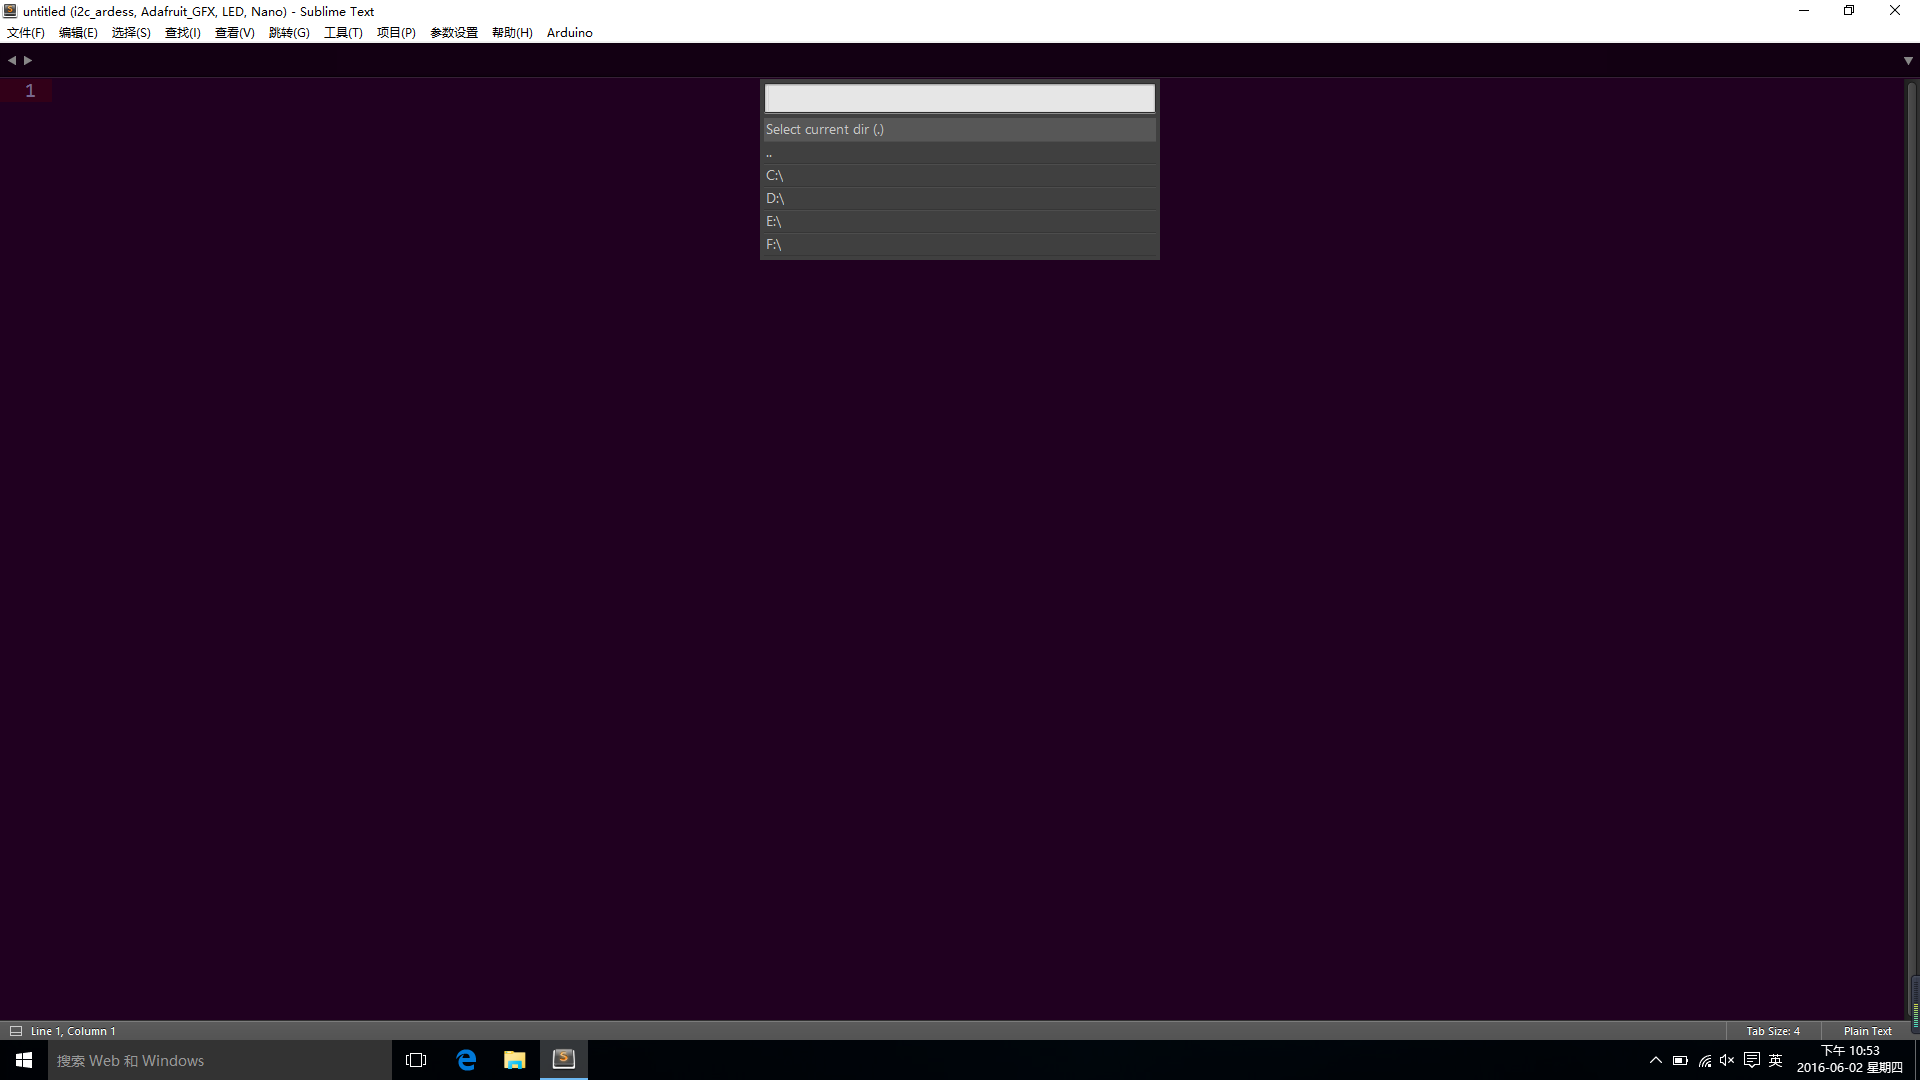
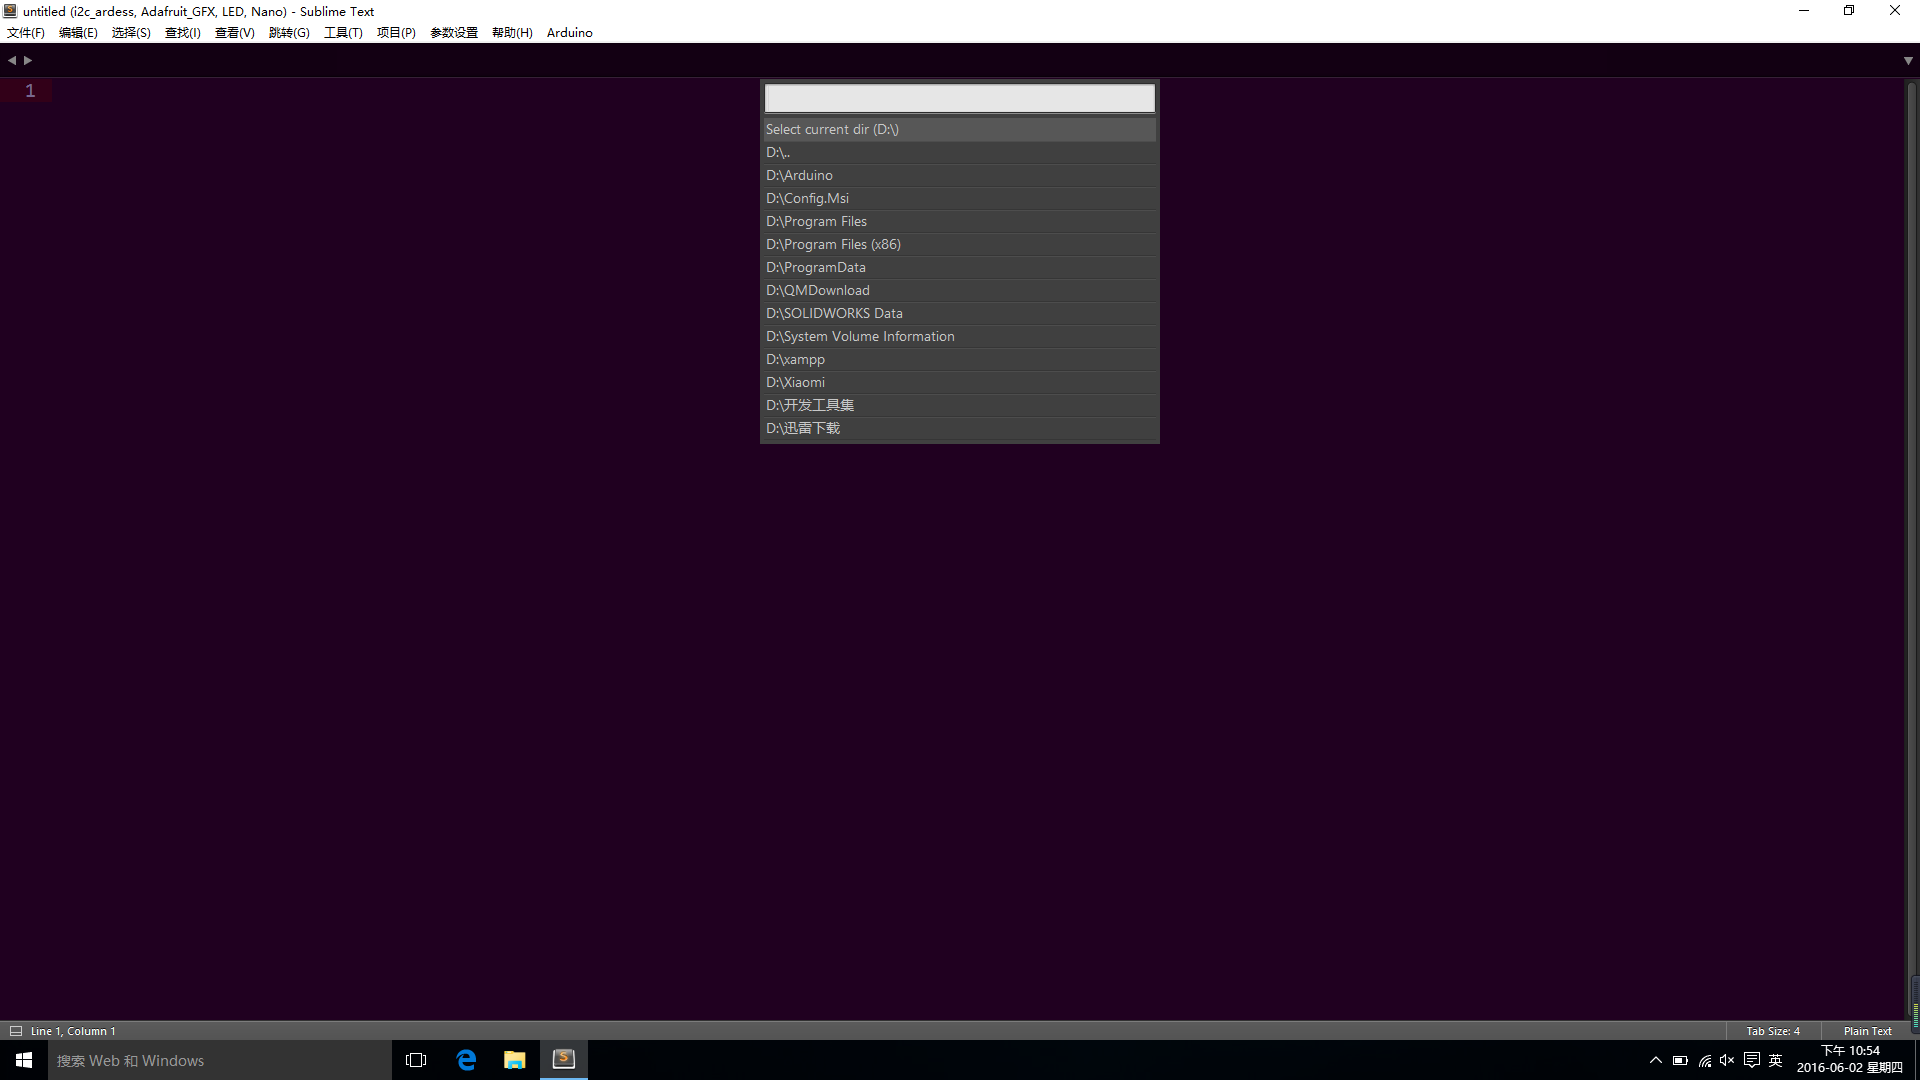
Site updated: 2016-07-02 00:36:18

Changed region(s): [[0.375, 0.1528, 0.625, 0.4278]]

diff --git a/2016/06/30/sublime-stino/index.html b/2016/06/30/sublime-stino/index.html
@@ -5,23 +5,22 @@
   
   <title>替代Arduino IDE的Sublime Text的插件---Stino | 探索的好奇心</title>
   <meta name="viewport" content="width=device-width, initial-scale=1, maximum-scale=1">
-  <meta name="description" content="Stino是Sublime Text的插件，它把Sublime Text变身成Arduino IDE，但功能比官方软件强大,比如Arduino IDE没有代码自动补全提示。我第一次用Sublime Text的Stino后就爱上了这个插件，打代码时自动提示和补全，很赞！！接下来说说Sublime Text如何安装Stino插件及一些问题的解决方法！Arduino IDE需要安装到盘的根目录下而不是P">
+  <meta name="description" content="Stino是Sublime Text的插件，它能把Sublime Text变身成Arduino IDE，但功能比官方软件强大，比如Arduino IDE没有代码自动补全提示。我第一次用Sublime Text的Stino插件后就爱上了这个玩意，打代码时自动提示和补全，很赞！！并且编译速度比官方IDE快！因为Arduino IDE是基于Java的Processing，Java的虚拟机机制导致编译速度">
 <meta property="og:type" content="article">
 <meta property="og:title" content="替代Arduino IDE的Sublime Text的插件---Stino">
 <meta property="og:url" content="http://haoqiabin.cn/2016/06/30/sublime-stino/index.html">
 <meta property="og:site_name" content="探索的好奇心">
-<meta property="og:description" content="Stino是Sublime Text的插件，它把Sublime Text变身成Arduino IDE，但功能比官方软件强大,比如Arduino IDE没有代码自动补全提示。我第一次用Sublime Text的Stino后就爱上了这个插件，打代码时自动提示和补全，很赞！！接下来说说Sublime Text如何安装Stino插件及一些问题的解决方法！Arduino IDE需要安装到盘的根目录下而不是P">
+<meta property="og:description" content="Stino是Sublime Text的插件，它能把Sublime Text变身成Arduino IDE，但功能比官方软件强大，比如Arduino IDE没有代码自动补全提示。我第一次用Sublime Text的Stino插件后就爱上了这个玩意，打代码时自动提示和补全，很赞！！并且编译速度比官方IDE快！因为Arduino IDE是基于Java的Processing，Java的虚拟机机制导致编译速度">
 <meta property="og:image" content="http://haoqiabin.cn/img/step1.png">
 <meta property="og:image" content="http://haoqiabin.cn/img/step2.png">
 <meta property="og:image" content="http://haoqiabin.cn/img/step3.png">
 <meta property="og:image" content="http://haoqiabin.cn/img/step4.png">
 <meta property="og:image" content="http://haoqiabin.cn/img/step5.png">
 <meta property="og:image" content="http://haoqiabin.cn/img/step6.png">
-<meta property="og:image" content="http://haoqiabin.cn/img/step7.png">
-<meta property="og:updated_time" content="2016-06-30T15:19:51.950Z">
+<meta property="og:updated_time" content="2016-07-01T16:35:12.950Z">
 <meta name="twitter:card" content="summary">
 <meta name="twitter:title" content="替代Arduino IDE的Sublime Text的插件---Stino">
-<meta name="twitter:description" content="Stino是Sublime Text的插件，它把Sublime Text变身成Arduino IDE，但功能比官方软件强大,比如Arduino IDE没有代码自动补全提示。我第一次用Sublime Text的Stino后就爱上了这个插件，打代码时自动提示和补全，很赞！！接下来说说Sublime Text如何安装Stino插件及一些问题的解决方法！Arduino IDE需要安装到盘的根目录下而不是P">
+<meta name="twitter:description" content="Stino是Sublime Text的插件，它能把Sublime Text变身成Arduino IDE，但功能比官方软件强大，比如Arduino IDE没有代码自动补全提示。我第一次用Sublime Text的Stino插件后就爱上了这个玩意，打代码时自动提示和补全，很赞！！并且编译速度比官方IDE快！因为Arduino IDE是基于Java的Processing，Java的虚拟机机制导致编译速度">
 <meta name="twitter:image" content="http://haoqiabin.cn/img/step1.png">
   
     <link rel="alternative" href="/atom.xml" title="探索的好奇心" type="application/atom+xml">
@@ -281,10 +280,10 @@
     <div class="article-entry" itemprop="articleBody">
       
           
-        <p>Stino是Sublime Text的插件，它把Sublime Text变身成Arduino IDE，但功能比官方软件强大,比如Arduino IDE没有代码自动补全提示。<br>我第一次用Sublime Text的Stino后就爱上了这个插件，打代码时自动提示和补全，很赞！！<br>接下来说说Sublime Text如何安装Stino插件及一些问题的解决方法！<br>Arduino IDE需要安装到盘的根目录下而不是Program Files目录下！<br><a href="https://github.com/Robot-Will/Stino" target="_blank" rel="external">Stino插件官网</a><br>安装需要:</p>
+        <p>Stino是Sublime Text的插件，它能把Sublime Text变身成Arduino IDE，但功能比官方软件强大，比如Arduino IDE没有代码自动补全提示。<br>我第一次用Sublime Text的Stino插件后就爱上了这个玩意，打代码时自动提示和补全，很赞！！并且编译速度比官方IDE快！因为Arduino IDE是基于Java的Processing，Java的虚拟机机制导致编译速度较慢，Sublime Text是C/C++语言编写的，编译速度自然杠杠的！<br>接下来说说Sublime Text如何安装Stino插件及一些问题的解决方法！<br>Arduino IDE需要安装到盘的根目录下而不是Program Files目录下！<br><a href="https://github.com/Robot-Will/Stino" target="_blank" rel="external">Stino插件官网</a><br>安装需要:</p>
 <ul>
-<li><a href="http://www.sublimetext.com/" target="_blank" rel="external">Sublime Text</a><br>经测试Sublime Text 2和Sublime Text 3均可使用Stino插件</li>
-<li><a href="https://www.arduino.cc/en/Main/Software" target="_blank" rel="external">Arduino IDE</a><br>Stino插件依赖于Arduino IDE，</li>
+<li><a href="http://www.sublimetext.com/" target="_blank" rel="external">Sublime Text</a> &lt;–点击下载<br>经测试Sublime Text 2和Sublime Text 3均可使用Stino插件</li>
+<li><a href="https://www.arduino.cc/en/Main/Software" target="_blank" rel="external">Arduino IDE</a> &lt;–点击下载<br>Sublime Text+Stino插件依赖于Arduino IDE，装上哈</li>
 </ul>
 <hr>
 <p>安装方法：</p>
@@ -299,7 +298,7 @@
 <li>2.手动安装<ul>
 <li>1).下载<a href="https://github.com/Robot-Will/Stino" target="_blank" rel="external">Stino</a>并解压。</li>
 <li>2).点击菜单 Preferences -&gt; Browse Packages… 。</li>
-<li>3).将解压后的目录复制到Sublime Text的Packages目录中。<br><img src="/img/step1.png" alt="step1"><br>安装插件后主控板选项为“无”<br><img src="/img/step2.png" alt="step2"><br>Arduino—&gt;参数设置—&gt;选择Arduino程序目录<br><img src="/img/step3.png" alt="step3"><br><img src="/img/step4.png" alt="step4"><br><img src="/img/step5.png" alt="step5"><br><img src="/img/step6.png" alt="step6"><br><img src="/img/step7.png" alt="step7"><br>看，此时再看主控板选项已经出现各种型号的Arduino开发板了！</li>
+<li>3).将解压后的目录复制到Sublime Text的Packages目录中。<br><img src="/img/step1.png" alt="step1"><br>安装插件后主控板选项为“无”<br><img src="/img/step2.png" alt="step2"><br>Arduino—&gt;参数设置—&gt;选择Arduino程序目录<br><img src="/img/step3.png" alt="step3"><br>选择你安装Arduino IDE的目录盘，我的是D盘<br><img src="/img/step4.png" alt="step4"><br>选择D:\Arduino<br><img src="/img/step5.png" alt="step5"><br>确定后提示找到IDE版本号<br><img src="/img/step6.png" alt="step6"><br>看，此时再看主控板选项已经出现各种型号的Arduino开发板了！</li>
 </ul>
 </li>
 </ul>
@@ -314,7 +313,7 @@
         <p><span>本文标题:</span><a href="/2016/06/30/sublime-stino/">替代Arduino IDE的Sublime Text的插件---Stino</a></p>
         <p><span>文章作者:</span><a href="/" title="回到主页">好奇吖斌</a></p>
         <p><span>发布时间:</span>2016-06-30, 11:16:37</p>
-        <p><span>最后更新:</span>2016-06-30, 23:19:51</p>
+        <p><span>最后更新:</span>2016-07-02, 00:35:12</p>
         <p>
             <span>原始链接:</span><a class="post-url" href="/2016/06/30/sublime-stino/" title="替代Arduino IDE的Sublime Text的插件---Stino">http://haoqiabin.cn/2016/06/30/sublime-stino/</a>
             <span class="copy-path" data-clipboard-text="原文: http://haoqiabin.cn/2016/06/30/sublime-stino/　　作者: 好奇吖斌" title="点击复制文章链接"><i class="fa fa-clipboard"></i></span>

diff --git a/index.html b/index.html
@@ -264,10 +264,10 @@
     <div class="article-entry" itemprop="articleBody">
       
           
-        <p>Stino是Sublime Text的插件，它把Sublime Text变身成Arduino IDE，但功能比官方软件强大,比如Arduino IDE没有代码自动补全提示。<br>我第一次用Sublime Text的Stino后就爱上了这个插件，打代码时自动提示和补全，很赞！！<br>接下来说说Sublime Text如何安装Stino插件及一些问题的解决方法！<br>Arduino IDE需要安装到盘的根目录下而不是Program Files目录下！<br><a href="https://github.com/Robot-Will/Stino" target="_blank" rel="external">Stino插件官网</a><br>安装需要:</p>
+        <p>Stino是Sublime Text的插件，它能把Sublime Text变身成Arduino IDE，但功能比官方软件强大，比如Arduino IDE没有代码自动补全提示。<br>我第一次用Sublime Text的Stino插件后就爱上了这个玩意，打代码时自动提示和补全，很赞！！并且编译速度比官方IDE快！因为Arduino IDE是基于Java的Processing，Java的虚拟机机制导致编译速度较慢，Sublime Text是C/C++语言编写的，编译速度自然杠杠的！<br>接下来说说Sublime Text如何安装Stino插件及一些问题的解决方法！<br>Arduino IDE需要安装到盘的根目录下而不是Program Files目录下！<br><a href="https://github.com/Robot-Will/Stino" target="_blank" rel="external">Stino插件官网</a><br>安装需要:</p>
 <ul>
-<li><a href="http://www.sublimetext.com/" target="_blank" rel="external">Sublime Text</a><br>经测试Sublime Text 2和Sublime Text 3均可使用Stino插件</li>
-<li><a href="https://www.arduino.cc/en/Main/Software" target="_blank" rel="external">Arduino IDE</a><br>Stino插件依赖于Arduino IDE，</li>
+<li><a href="http://www.sublimetext.com/" target="_blank" rel="external">Sublime Text</a> &lt;–点击下载<br>经测试Sublime Text 2和Sublime Text 3均可使用Stino插件</li>
+<li><a href="https://www.arduino.cc/en/Main/Software" target="_blank" rel="external">Arduino IDE</a> &lt;–点击下载<br>Sublime Text+Stino插件依赖于Arduino IDE，装上哈</li>
 </ul>
 <hr>
 <p>安装方法：</p>
@@ -282,7 +282,7 @@
 <li>2.手动安装<ul>
 <li>1).下载<a href="https://github.com/Robot-Will/Stino" target="_blank" rel="external">Stino</a>并解压。</li>
 <li>2).点击菜单 Preferences -&gt; Browse Packages… 。</li>
-<li>3).将解压后的目录复制到Sublime Text的Packages目录中。<br><img src="/img/step1.png" alt="step1"><br>安装插件后主控板选项为“无”<br><img src="/img/step2.png" alt="step2"><br>Arduino—&gt;参数设置—&gt;选择Arduino程序目录<br><img src="/img/step3.png" alt="step3"><br><img src="/img/step4.png" alt="step4"><br><img src="/img/step5.png" alt="step5"><br><img src="/img/step6.png" alt="step6"><br><img src="/img/step7.png" alt="step7"><br>看，此时再看主控板选项已经出现各种型号的Arduino开发板了！</li>
+<li>3).将解压后的目录复制到Sublime Text的Packages目录中。<br><img src="/img/step1.png" alt="step1"><br>安装插件后主控板选项为“无”<br><img src="/img/step2.png" alt="step2"><br>Arduino—&gt;参数设置—&gt;选择Arduino程序目录<br><img src="/img/step3.png" alt="step3"><br>选择你安装Arduino IDE的目录盘，我的是D盘<br><img src="/img/step4.png" alt="step4"><br>选择D:\Arduino<br><img src="/img/step5.png" alt="step5"><br>确定后提示找到IDE版本号<br><img src="/img/step6.png" alt="step6"><br>看，此时再看主控板选项已经出现各种型号的Arduino开发板了！</li>
 </ul>
 </li>
 </ul>
